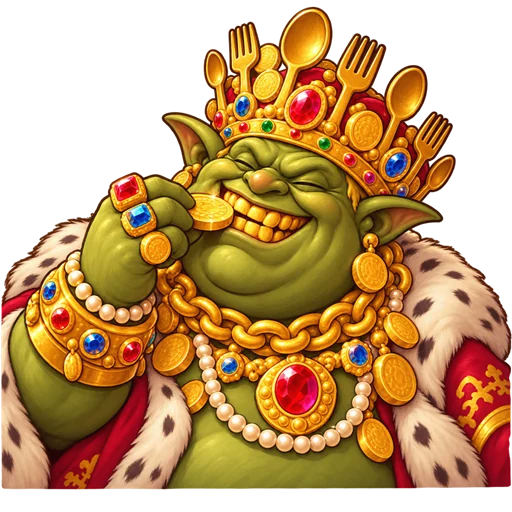
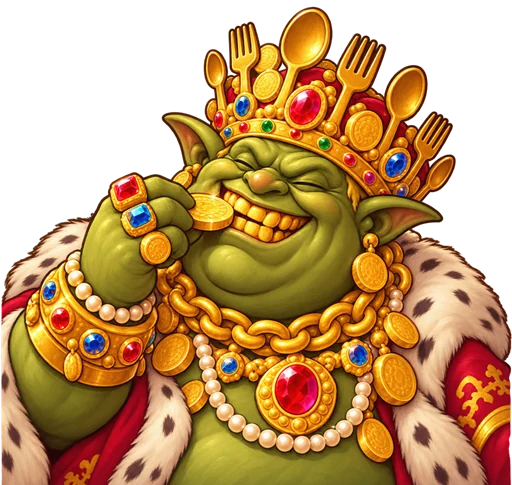
Projektseiten: Häuptling schließt unten bündig ab, breite Bilder werden nicht mehr beschnitten

diff --git a/style.css b/style.css
@@ -59,6 +59,8 @@ h2 { font-size: clamp(2.1rem, 5vw, 3.2rem); }
 .top-game { display: grid; grid-template-columns: minmax(0, 1fr) minmax(0, 1fr); gap: 34px; align-items: center; padding: 26px 0 44px; }
 .top-game .copy { display: grid; gap: 14px; justify-items: start; }
 .top-game .pic { aspect-ratio: 4 / 3; border: 1px solid var(--line); border-radius: 4px; }
+.top-game .pic:not(.contain) { aspect-ratio: auto; }
+.top-game .pic:not(.contain) img { display: block; height: auto; }
 .steps { list-style: none; margin: 0; padding: 0; display: grid; grid-auto-flow: column; grid-auto-columns: minmax(0, 1fr); gap: 8px; }
 .steps li { padding: 12px 12px 12px; background: var(--plate); border: 1px solid var(--line); border-top: 4px solid var(--line); border-radius: 3px; font-size: .92rem; font-weight: 600; color: var(--muted); }
 .steps small { display: block; font-weight: 700; font-size: .72rem; letter-spacing: .08em; text-transform: uppercase; margin-bottom: 2px; }
